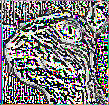
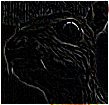
Update contents

diff --git a/notebooks/practice_8_1.py b/notebooks/practice_8_1.py
@@ -62,7 +62,7 @@ def conv2d(input_matrix, kernel):
         for j in range(output_width):
             region = input_matrix[i:i + kernel_height, j:j + kernel_width]
 
-            output[i, j] = np.sum(region * kernel)
+            output[i, j] = max(min(np.sum(region * kernel), 255), 0)
 
     return output
 
